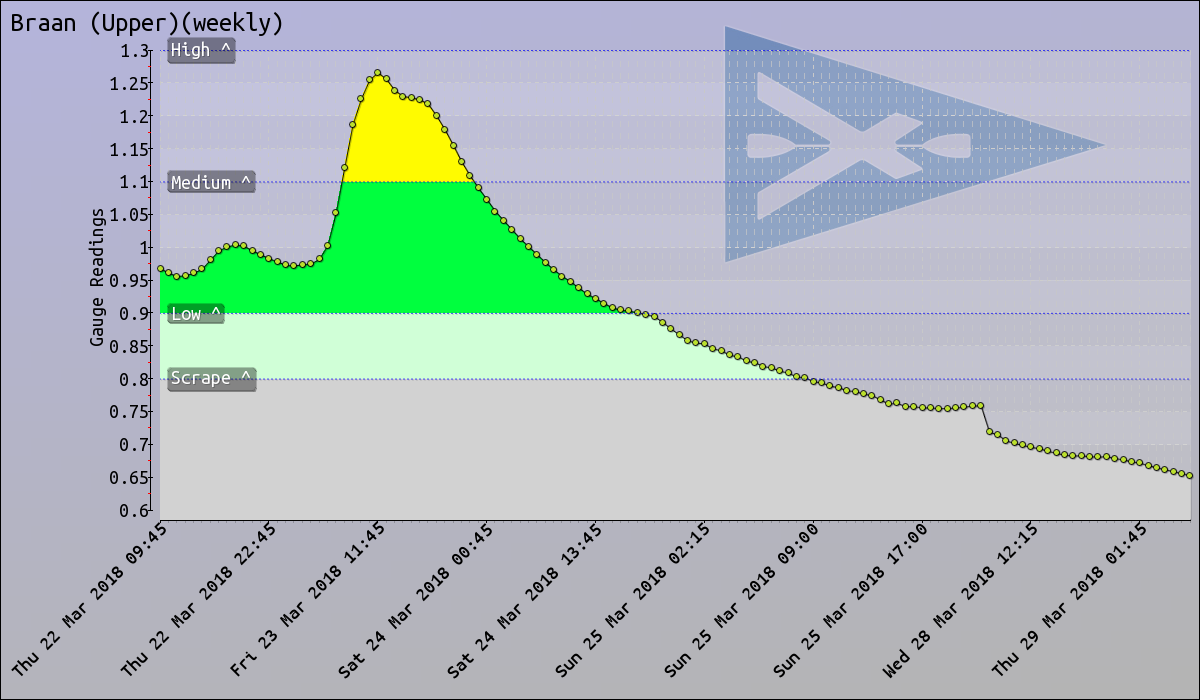
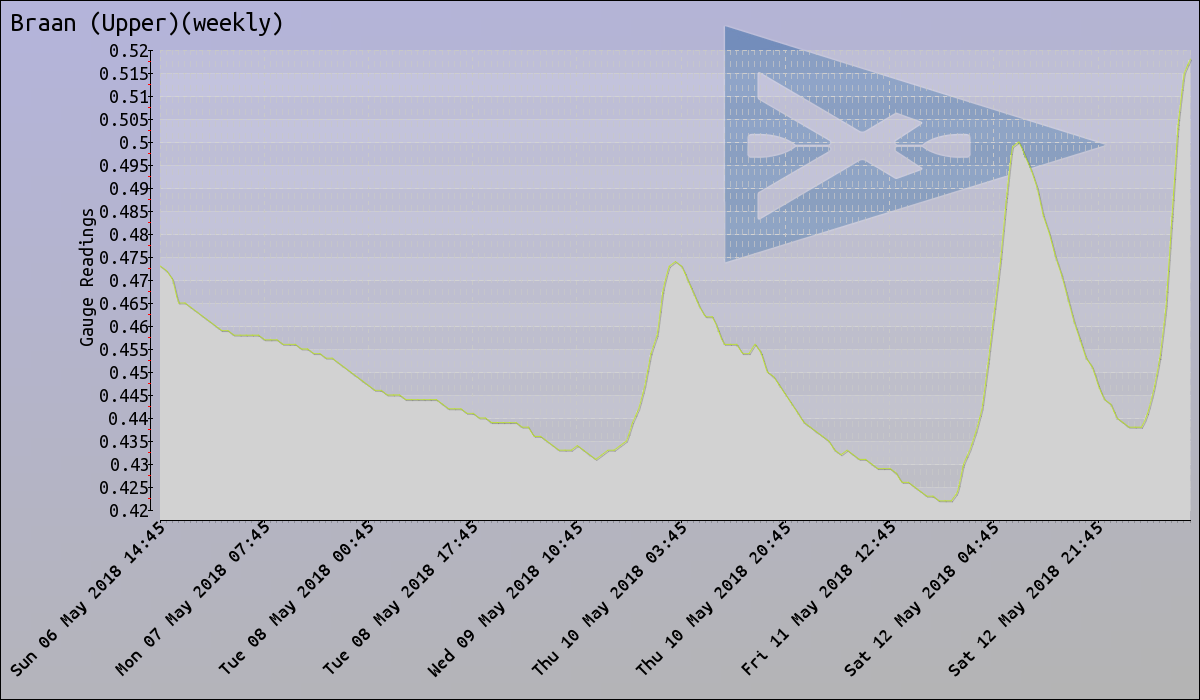
add monthly chart

diff --git a/leaflet/index.html b/leaflet/index.html
@@ -108,7 +108,7 @@
         });
         var scrapeIcon = L.icon({
             iconUrl: '/wheres-the-water/pics/SCRAPE.png',
-            iconRetinaUrl: 'http://canoescotland.org/wheres-the-water/pics/SCRAPE.png',
+            iconRetinaUrl: '/wheres-the-water/pics/SCRAPE.png',
             iconSize: [10, 10],
             iconAnchor: [0, 0],
             popupAnchor: [5, -3]
@@ -212,15 +212,21 @@
                             +riverSection['latitude']+"/"+riverSection['longitude']+"'><img title='Open maps Link' src='/wheres-the-water/pics/osm.png' width='22' height='22' /></a>";
             linksContent += "&nbsp; <a href='geo:"+riverSection['latitude']+","+riverSection['longitude']+"'><img title='Geo reference' src='/wheres-the-water/pics/22-apps-marble.png' width='22' height='22' /></a>";
 
-            if (!'guidebook_link' in riverSection && !riverSection['guidebook_link'].length == 0) {
+            if ('guidebook_link' in riverSection && !riverSection['guidebook_link'].length == 0) {
                 linksContent += "&nbsp; <a target='_blank' rel='noopener' href='"+riverSection['guidebook_link']+"'><img title='UKRGB Link' src='/wheres-the-water/pics/ukrgb.ico'/></a>";
             }
-            if (!'sca_guidebook_no' in riverSection && !riverSection['sca_guidebook_no'].length == 0) {
-                linksContent += "&nbsp; <img title='SCA WW Guidebook number' src='/wheres-the-water/pics/sca.png' />"+riverSection['sca_guidebook_no'];
+            if ('sca_guidebook_no' in riverSection && !riverSection['sca_guidebook_no'].length == 0) {
+                linksContent += "&nbsp; <img title='SCA WW Guidebook number' src='/wheres-the-water/pics/sca.png' /> "+riverSection['sca_guidebook_no'];
             }
-            if (!'access_issue' in riverSection && !riverSection['access_issue'].length == 0) {
+            if ('access_issue' in riverSection && !riverSection['access_issue'].length == 0) {
                 linksContent += "&nbsp; <a target='_blank' rel='noopener' href='"+riverSection['access_issue']+"'><img title='Access Issue Link' src='/wheres-the-water/pics/warning.png' /></a>";
             }
+
+            var filename = getRiverGraphFilename(riverSection);
+            linksContent += "&nbsp; <a target='_blank' rel='noopener' href='/wheres-the-water/charts/"+filename+"-weekly.png'><img title='Weekly Chart' src='/wheres-the-water/pics/chart.png' /></a>";
+            linksContent += "&nbsp; <a target='_blank' rel='noopener' href='/wheres-the-water/charts/"+filename+"-monthly.png'><img title='Monthly Chart' src='/wheres-the-water/pics/chart-monthly.png' /></a>";
+            //linksContent .= "&nbsp; <a target='_blank' rel='noopener' href='/wheres-the-water/charts/"+filename+"-yearly.png'><img title='Weekly Chart' src='/wheres-the-water/pics/chart-yearly.png' /></a>";
+
             return linksContent;
         }
         function addRiverMarkers() {
@@ -228,7 +234,7 @@
                 var riverSection = riverSections[i]['name'];
                 var currentReading = riverSections[i]['currentReading'];
                 var waterLevelValue = getWaterLevelValue(riverSections[i]);
-                var iconBase = 'http://canoescotland.org/wheres-the-water/pics/';
+                var iconBase = '/wheres-the-water/pics/';
                 var ext = '.png';
                 var trend = riverSections[i]['trend'];
                 var currentReadingTime = riverSections[i]['currentReadingTime'];
@@ -236,12 +242,19 @@
                 var riverReadings = getRiverReadingsTable(riverSections[i], waterLevelValue);
                 var riverFilename = getRiverGraphFilename(riverSections[i]);
                 var icon = getWaterLevelIcon(riverSections[i]);
-                var contentString = "<div><p><b>" + riverSection + "</b></p><p>Level: " + currentReading + " (" + tidyStatusString(waterLevelValue) + 
-                    ") <img src='" + iconBase + waterLevelValue + ext + "' /></p><p>Trend: " + tidyStatusString(trend) + "</p><p>Last reading: " + currentReadingTime +
+                var contentString = "<div><p><b>" + riverSection + "</b></p><p>Level: " + currentReading + " (" +
+                    tidyStatusString(waterLevelValue) + 
+                    ") <img src='" + iconBase + waterLevelValue + ext + "' /></p><p>Trend: " +
+                    tidyStatusString(trend) + "</p><p>Last reading: " + currentReadingTime +
                     "</p><p>" + sectionLinks + "</p>" +
-                    "<p><span class='js-calib-table'>Calibrations</span> / <span class='js-chart link' style='text-decoration: underline; color: blue; cursor: pointer'>Level chart</span></p>" + riverReadings + "<p class='js-chart-content' style='display: none'>" +
+                    "<p><span class='js-calib-table'>Calibrations</span> / <span class='js-chart-weekly link' style='text-decoration: underline; color: blue; cursor: pointer'>Weekly Chart</span> / <span class='js-chart-monthly link' style='text-decoration: underline; color: blue; cursor: pointer'>Monthly Chart</span></p>" +
+                    riverReadings + 
+                    "<p class='js-chart-weekly-content' style='display: none'>" +
                     "<a href='/wheres-the-water/charts/"+riverFilename+"-weekly.png'>"+
-                    "<img src='http://canoescotland.org/wheres-the-water/charts/"+riverFilename+"-weekly.png' style='max-width: 250px; width: 100%' /></a></p>" +
+                    "<img src='/wheres-the-water/charts/"+riverFilename+"-weekly.png' style='max-width: 250px; width: 100%' /></a></p>" +
+                    "<p class='js-chart-monthly-content' style='display: none'>" +
+                    "<a href='/wheres-the-water/charts/"+riverFilename+"-monthly.png'>"+
+                    "<img src='/wheres-the-water/charts/"+riverFilename+"-monthly.png' style='max-width: 250px; width: 100%' /></a></p>" +
                     "</div>";
                 L.marker([riverSections[i]['latitude'], riverSections[i]['longitude']], {icon: icon}).bindPopup(contentString).addTo( map );
             }
@@ -362,23 +375,40 @@
             }
         }
 
-        jQuery(document).ready( function(){
-            jQuery('#map').on('click', '.js-calib-table', function(){
-                    if (!jQuery(this).hasClass('js-link')){
-                        jQuery('.js-chart-content').hide();
-                        jQuery('.js-calib-table-content').show();
-                        jQuery(this).attr('style', '');
-                        jQuery('.js-chart').attr('style', 'text-decoration: underline; color: blue; cursor: pointer');
+        $(document).ready( function(){
+            $('#map').on('click', '.js-calib-table', function(){
+                    if (!$(this).hasClass('js-link')){
+                        $('.js-chart-weekly-content').hide();
+                        $('.js-chart-monthly-content').hide();
+                        $('.js-calib-table-content').show();
+                        $(this).attr('style', '');
+                        $('.js-chart-weekly').attr('style', 'text-decoration: underline; color: blue; cursor: pointer');
+                        $('.js-chart-monthly').attr('style', 'text-decoration: underline; color: blue; cursor: pointer');
                     }
-                });
-                jQuery('#map').on('click', '.js-chart', function(){
-                    if (!jQuery(this).hasClass('js-link')){
-                        jQuery('.js-calib-table-content').hide();
-                        jQuery('.js-chart-content').show();
-                        jQuery(this).attr('style', '');
-                        jQuery('.js-calib-table').attr('style', 'text-decoration: underline; color: blue; cursor: pointer');
+                }
+            );
+            $('#map').on('click', '.js-chart-weekly', function(){
+                    if (!$(this).hasClass('js-link')){
+                        $('.js-calib-table-content').hide();
+                        $('.js-chart-weekly-content').show();
+                        $('.js-chart-monthly-content').hide();
+                        $(this).attr('style', '');
+                        $('.js-calib-table').attr('style', 'text-decoration: underline; color: blue; cursor: pointer');
+                        $('.js-chart-monthly').attr('style', 'text-decoration: underline; color: blue; cursor: pointer');
                     }
-                });
+                }
+            );
+            $('#map').on('click', '.js-chart-monthly', function(){
+                    if (!$(this).hasClass('js-link')){
+                        $('.js-calib-table-content').hide();
+                        $('.js-chart-weekly-content').hide();
+                        $('.js-chart-monthly-content').show();
+                        $(this).attr('style', '');
+                        $('.js-calib-table').attr('style', 'text-decoration: underline; color: blue; cursor: pointer');
+                        $('.js-chart-weekly').attr('style', 'text-decoration: underline; color: blue; cursor: pointer');
+                    }
+                }
+            );
         });
   </script>
 
